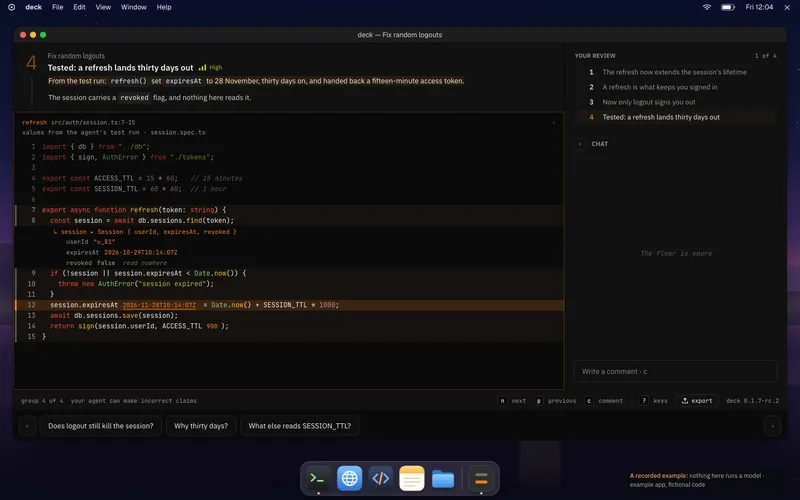
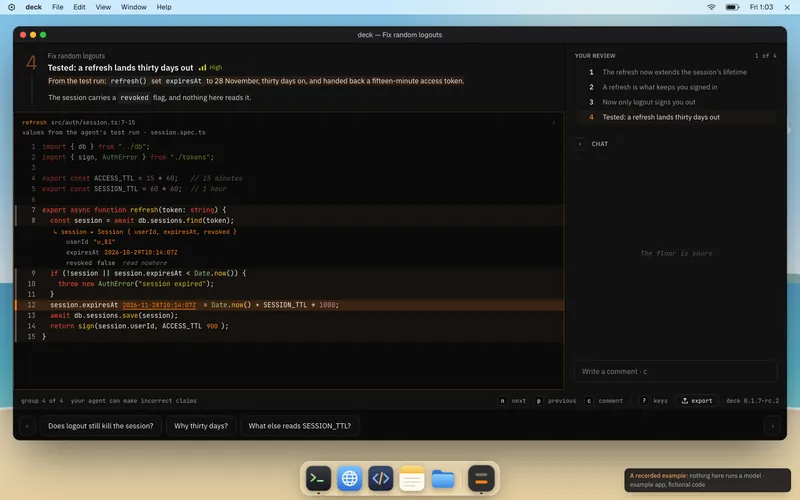
A daytime beach on /play/'s desktop
Soft sky and clouds, a hazy headland, the sea and its foam, the sand:
hand-drawn in the page, 3 KB. The menu bar and dock are light glass now,
the honest line a touch more opaque, so all of it reads on a bright
wallpaper. The still for phones is retaken.

Changed region(s): [[0.0, 0.0, 1.0, 1.0]]

diff --git a/site/play/index.html b/site/play/index.html
@@ -74,27 +74,23 @@
 <div class="desk" id="desk" tabindex="-1" role="dialog" aria-modal="true" aria-label="deck on a desktop, a recorded example" hidden>
 <svg class="wall" viewBox="0 0 1600 1000" preserveAspectRatio="xMidYMid slice" aria-hidden="true">
 <defs>
-<linearGradient id="sky" x1="0" y1="0" x2="0" y2="1"><stop offset="0" stop-color="#0a0f26"/><stop offset=".3" stop-color="#1b1d4b"/><stop offset=".48" stop-color="#4a3270"/><stop offset=".58" stop-color="#a65278"/><stop offset=".64" stop-color="#ef8f68"/><stop offset=".66" stop-color="#f6b37a"/></linearGradient>
-<radialGradient id="sun" cx="1080" cy="600" r="520" gradientUnits="userSpaceOnUse"><stop offset="0" stop-color="#ffd59a" stop-opacity=".9"/><stop offset=".18" stop-color="#ff9f6e" stop-opacity=".55"/><stop offset=".55" stop-color="#c25a7c" stop-opacity=".18"/><stop offset="1" stop-color="#c25a7c" stop-opacity="0"/></radialGradient>
-<linearGradient id="far" x1="0" y1="0" x2="0" y2="1"><stop offset="0" stop-color="#6b4a7e"/><stop offset=".25" stop-color="#3e2f5e"/></linearGradient>
-<linearGradient id="mid" x1="0" y1="0" x2="0" y2="1"><stop offset="0" stop-color="#3a2b55"/><stop offset=".3" stop-color="#211b3c"/></linearGradient>
-<linearGradient id="near" x1="0" y1="0" x2="0" y2="1"><stop offset="0" stop-color="#17142b"/><stop offset=".2" stop-color="#0c0b19"/></linearGradient>
-<linearGradient id="lake" x1="0" y1="0" x2="0" y2="1"><stop offset="0" stop-color="#5b3b6c"/><stop offset=".15" stop-color="#2b2148"/><stop offset="1" stop-color="#070712"/></linearGradient>
-<linearGradient id="mist" x1="0" y1="0" x2="0" y2="1"><stop offset="0" stop-color="#ffd2b0" stop-opacity="0"/><stop offset=".5" stop-color="#ffd2b0" stop-opacity=".16"/><stop offset="1" stop-color="#ffd2b0" stop-opacity="0"/></linearGradient>
-<linearGradient id="glint" x1="0" y1="0" x2="0" y2="1"><stop offset="0" stop-color="#ffcf98" stop-opacity=".7"/><stop offset="1" stop-color="#ffcf98" stop-opacity="0"/></linearGradient>
-<clipPath id="above"><rect width="1600" height="650"/></clipPath>
+<linearGradient id="sky" x1="0" y1="0" x2="0" y2="1"><stop offset="0" stop-color="#7fc3ea"/><stop offset=".35" stop-color="#a9d8f2"/><stop offset=".56" stop-color="#e4f3fa"/></linearGradient>
+<radialGradient id="sun" cx="1220" cy="150" r="460" gradientUnits="userSpaceOnUse"><stop offset="0" stop-color="#fffbe8" stop-opacity=".95"/><stop offset=".2" stop-color="#fff4d1" stop-opacity=".45"/><stop offset="1" stop-color="#fff4d1" stop-opacity="0"/></radialGradient>
+<linearGradient id="head" x1="0" y1="0" x2="0" y2="1"><stop offset="0" stop-color="#8fb6b4"/><stop offset="1" stop-color="#b9d3d0"/></linearGradient>
+<linearGradient id="sea" x1="0" y1="0" x2="0" y2="1"><stop offset="0" stop-color="#5aa9cf"/><stop offset=".55" stop-color="#5fbfd6"/><stop offset="1" stop-color="#8fdad9"/></linearGradient>
+<linearGradient id="sand" x1="0" y1="0" x2="0" y2="1"><stop offset="0" stop-color="#efe0bf"/><stop offset="1" stop-color="#e6cf9f"/></linearGradient>
+<linearGradient id="wet" x1="0" y1="0" x2="0" y2="1"><stop offset="0" stop-color="#d8c7a0"/><stop offset="1" stop-color="#e9d8b2" stop-opacity="0"/></linearGradient>
+<clipPath id="land"><rect width="1600" height="566"/></clipPath>
 </defs>
 <rect width="1600" height="1000" fill="url(#sky)"/>
 <rect width="1600" height="1000" fill="url(#sun)"/>
-<g fill="#fff"><circle cx="849" cy="73" r="1.2" opacity="0.45"/><circle cx="1065" cy="229" r="1.3" opacity="0.85"/><circle cx="808" cy="238" r="0.9" opacity="0.55"/><circle cx="481" cy="106" r="1.0" opacity="0.65"/><circle cx="409" cy="134" r="1.5" opacity="0.25"/><circle cx="180" cy="201" r="0.9" opacity="0.25"/><circle cx="1386" cy="94" r="1.3" opacity="0.75"/><circle cx="1595" cy="245" r="1.3" opacity="0.35"/><circle cx="685" cy="60" r="0.9" opacity="0.25"/><circle cx="158" cy="198" r="1.3" opacity="0.55"/><circle cx="1397" cy="327" r="1.3" opacity="0.85"/><circle cx="869" cy="15" r="1.3" opacity="0.75"/><circle cx="1065" cy="128" r="0.7" opacity="0.35"/><circle cx="453" cy="312" r="0.8" opacity="0.35"/><circle cx="316" cy="277" r="1.3" opacity="0.55"/><circle cx="615" cy="178" r="1.1" opacity="0.35"/><circle cx="911" cy="328" r="0.8" opacity="0.45"/><circle cx="330" cy="99" r="0.7" opacity="0.85"/><circle cx="782" cy="193" r="1.3" opacity="0.65"/><circle cx="690" cy="198" r="0.7" opacity="0.25"/><circle cx="172" cy="31" r="0.8" opacity="0.65"/><circle cx="1274" cy="185" r="0.6" opacity="0.65"/><circle cx="792" cy="276" r="1.0" opacity="0.35"/><circle cx="531" cy="55" r="0.9" opacity="0.75"/><circle cx="1598" cy="139" r="1.0" opacity="0.65"/><circle cx="957" cy="239" r="0.8" opacity="0.25"/><circle cx="940" cy="288" r="0.6" opacity="0.45"/><circle cx="1458" cy="123" r="1.5" opacity="0.55"/><circle cx="537" cy="67" r="0.6" opacity="0.45"/><circle cx="193" cy="45" r="1.0" opacity="0.35"/><circle cx="1269" cy="327" r="0.7" opacity="0.75"/><circle cx="433" cy="26" r="1.3" opacity="0.45"/><circle cx="918" cy="244" r="1.5" opacity="0.85"/><circle cx="1514" cy="96" r="1.4" opacity="0.65"/><circle cx="1403" cy="79" r="0.8" opacity="0.85"/><circle cx="918" cy="14" r="1.5" opacity="0.25"/><circle cx="317" cy="147" r="0.7" opacity="0.35"/><circle cx="582" cy="284" r="0.9" opacity="0.35"/><circle cx="857" cy="291" r="1.3" opacity="0.85"/><circle cx="746" cy="291" r="1.0" opacity="0.25"/><circle cx="220" cy="252" r="1.4" opacity="0.25"/><circle cx="762" cy="55" r="1.4" opacity="0.55"/><circle cx="709" cy="243" r="1.1" opacity="0.85"/><circle cx="1440" cy="202" r="1.3" opacity="0.55"/><circle cx="1327" cy="186" r="1.1" opacity="0.75"/><circle cx="653" cy="144" r="1.3" opacity="0.85"/></g>
-<circle cx="1080" cy="610" r="40" fill="#ffe3b8" opacity=".92"/>
-<g clip-path="url(#above)"><polygon points="0,1000 0,492 25,492 50,492 75,492 100,489 125,487 150,488 175,490 200,491 225,491 250,490 275,489 300,484 325,480 350,477 375,477 400,475 425,479 450,480 475,481 500,481 525,479 550,475 575,475 600,477 625,482 650,483 675,489 700,492 725,494 750,493 775,494 800,495 825,494 850,495 875,495 900,494 925,493 950,494 975,492 1000,493 1025,493 1050,494 1075,492 1100,493 1125,495 1150,498 1175,499 1200,500 1225,504 1250,504 1275,507 1300,511 1325,514 1350,520 1375,522 1400,523 1425,523 1450,521 1475,525 1500,526 1525,523 1550,525 1575,529 1600,531 1600,1000" fill="url(#far)"/><polygon points="0,1000 0,485 25,488 50,491 75,491 100,492 125,496 150,499 175,502 200,506 225,510 250,513 275,516 300,517 325,520 350,524 375,524 400,526 425,527 450,530 475,529 500,530 525,533 550,535 575,538 600,542 625,545 650,546 675,549 700,551 725,552 750,553 775,555 800,555 825,559 850,561 875,563 900,564 925,564 950,565 975,565 1000,566 1025,566 1050,566 1075,569 1100,571 1125,571 1150,572 1175,573 1200,571 1225,571 1250,572 1275,572 1300,570 1325,572 1350,572 1375,575 1400,576 1425,578 1450,578 1475,579 1500,581 1525,582 1550,583 1575,583 1600,582 1600,1000" fill="url(#mid)"/></g>
-<rect y="560" width="1600" height="110" fill="url(#mist)"/>
-<rect y="650" width="1600" height="350" fill="url(#lake)"/>
-<g transform="translate(0 1300) scale(1 -1)" opacity=".28" clip-path="url(#above)"><polygon points="0,1000 0,492 25,492 50,492 75,492 100,489 125,487 150,488 175,490 200,491 225,491 250,490 275,489 300,484 325,480 350,477 375,477 400,475 425,479 450,480 475,481 500,481 525,479 550,475 575,475 600,477 625,482 650,483 675,489 700,492 725,494 750,493 775,494 800,495 825,494 850,495 875,495 900,494 925,493 950,494 975,492 1000,493 1025,493 1050,494 1075,492 1100,493 1125,495 1150,498 1175,499 1200,500 1225,504 1250,504 1275,507 1300,511 1325,514 1350,520 1375,522 1400,523 1425,523 1450,521 1475,525 1500,526 1525,523 1550,525 1575,529 1600,531 1600,1000" fill="url(#far)"/><polygon points="0,1000 0,485 25,488 50,491 75,491 100,492 125,496 150,499 175,502 200,506 225,510 250,513 275,516 300,517 325,520 350,524 375,524 400,526 425,527 450,530 475,529 500,530 525,533 550,535 575,538 600,542 625,545 650,546 675,549 700,551 725,552 750,553 775,555 800,555 825,559 850,561 875,563 900,564 925,564 950,565 975,565 1000,566 1025,566 1050,566 1075,569 1100,571 1125,571 1150,572 1175,573 1200,571 1225,571 1250,572 1275,572 1300,570 1325,572 1350,572 1375,575 1400,576 1425,578 1450,578 1475,579 1500,581 1525,582 1550,583 1575,583 1600,582 1600,1000" fill="url(#mid)"/></g>
-<path d="M1050 652 h60 l14 340 h-88 z" fill="url(#glint)" opacity=".5"/>
-<g fill="#ffe0b8" opacity=".35"><rect x="1030" y="672" width="100" height="2" rx="1"/><rect x="1046" y="700" width="70" height="2" rx="1"/><rect x="1020" y="736" width="118" height="1.5" rx="1"/><rect x="1056" y="780" width="52" height="1.5" rx="1"/></g>
-<polygon points="0,1000 0,958 25,959 50,961 75,961 100,962 125,963 150,963 175,963 200,963 225,964 250,966 275,966 300,967 325,968 350,969 375,969 400,969 425,970 450,970 475,970 500,971 525,972 550,973 575,974 600,975 625,975 650,976 675,976 700,976 725,974 750,973 775,974 800,973 825,973 850,973 875,973 900,973 925,974 950,974 975,973 1000,974 1025,973 1050,973 1075,973 1100,972 1125,971 1150,970 1175,971 1200,970 1225,970 1250,968 1275,967 1300,966 1325,966 1350,966 1375,965 1400,964 1425,963 1450,964 1475,963 1500,961 1525,960 1550,959 1575,956 1600,955 1600,1000" fill="url(#near)"/>
+<g fill="#fff"><g transform="translate(300 170) scale(1)" opacity="0.75"><ellipse cx="0" cy="0" rx="120" ry="26"/><ellipse cx="-60" cy="-14" rx="62" ry="30"/><ellipse cx="40" cy="-22" rx="74" ry="38"/></g><g transform="translate(760 110) scale(0.7)" opacity="0.6"><ellipse cx="0" cy="0" rx="120" ry="26"/><ellipse cx="-60" cy="-14" rx="62" ry="30"/><ellipse cx="40" cy="-22" rx="74" ry="38"/></g><g transform="translate(1480 260) scale(0.85)" opacity="0.55"><ellipse cx="0" cy="0" rx="120" ry="26"/><ellipse cx="-60" cy="-14" rx="62" ry="30"/><ellipse cx="40" cy="-22" rx="74" ry="38"/></g><g transform="translate(1040 300) scale(0.55)" opacity="0.45"><ellipse cx="0" cy="0" rx="120" ry="26"/><ellipse cx="-60" cy="-14" rx="62" ry="30"/><ellipse cx="40" cy="-22" rx="74" ry="38"/></g></g>
+<g clip-path="url(#land)"><polygon points="900,1000 900,531 950,531 1000,531 1050,532 1100,531 1150,534 1200,534 1250,536 1300,539 1350,543 1400,545 1450,544 1500,546 1550,546 1600,548 1600,1000" fill="url(#head)"/></g>
+<rect y="566" width="1600" height="300" fill="url(#sea)"/>
+<g fill="none" stroke="#ffffff" stroke-linecap="round" opacity=".55"><path d="M120 620h180M520 650h240M980 610h160M1300 680h200M240 720h260M760 760h220" stroke-width="2"/></g>
+<path d="M0 820 C 200 800, 360 840, 560 822 S 960 800, 1160 826 S 1460 808, 1600 820 V 1000 H 0 Z" fill="url(#sand)"/>
+<path d="M0 820 C 200 800, 360 840, 560 822 S 960 800, 1160 826 S 1460 808, 1600 820 V 860 H 0 Z" fill="url(#wet)"/>
+<path d="M0 818 C 200 798, 360 838, 560 820 S 960 798, 1160 824 S 1460 806, 1600 818" fill="none" stroke="#fffdf6" stroke-width="5" stroke-linecap="round" opacity=".9"/>
 </svg>
 <div class="mb" aria-hidden="true">
  <span class="mb-l"><svg viewBox="0 0 16 16"><path d="M8 1.5l5.6 3.25v6.5L8 14.5l-5.6-3.25v-6.5z" fill="none" stroke="currentColor" stroke-width="1.5"/><circle cx="8" cy="8" r="2" fill="currentColor"/></svg><b id="mb-app">Terminal</b><span>File</span><span>Edit</span><span>View</span><span>Window</span><span>Help</span></span>

diff --git a/site/css/play.css b/site/css/play.css
@@ -8,7 +8,7 @@
 .pi-head .eyebrow{margin-bottom:calc(12*var(--u))}
 .pi-head h1{font-size:clamp(calc(32*var(--u)),3.6vw,calc(48*var(--u)))}
 .pi-line{margin:calc(12*var(--u)) 0 0;color:var(--soft);font-size:var(--fs-lede)}
-.pi-frame{position:relative;max-width:min(100%,calc((100svh - 280px) * 1.6));margin-top:calc(28*var(--u));border-radius:14px;overflow:hidden;border:1px solid #2a2a29;box-shadow:0 0 0 1px #000,0 40px 100px -30px #000;aspect-ratio:1440/900;background:#0a0f26}
+.pi-frame{position:relative;max-width:min(100%,calc((100svh - 280px) * 1.6));margin-top:calc(28*var(--u));border-radius:14px;overflow:hidden;border:1px solid #2a2a29;box-shadow:0 0 0 1px #000,0 40px 100px -30px #000;aspect-ratio:1440/900;background:#a9d8f2}
 .pi-still{display:block;width:100%;height:100%;object-fit:cover;transition:transform 760ms var(--ease),filter 760ms var(--ease)}
 .pi-frame::after{content:"";position:absolute;inset:0;background:radial-gradient(60% 60% at 50% 55%,#07070700,#07070766);pointer-events:none}
 .pi-start{appearance:none;position:absolute;left:50%;top:50%;z-index:2;transform:translate(-50%,-50%);display:inline-flex;align-items:center;gap:14px;padding:18px 30px 18px 22px;border:1px solid #ffffff2a;border-radius:999px;background:#0b0b0bcc;backdrop-filter:blur(16px) saturate(1.3);-webkit-backdrop-filter:blur(16px) saturate(1.3);color:var(--text);font:500 22px/1 var(--display);letter-spacing:-.01em;cursor:pointer;box-shadow:0 0 0 1px #000,0 20px 60px -10px #000,0 0 80px -10px #fe801955;transition:transform 420ms var(--ease),box-shadow 420ms var(--ease),border-color 150ms var(--ease)}
@@ -38,23 +38,23 @@
 
 /* ---- the desktop */
 html.desk-on,html.desk-on body{overflow:hidden}
-.desk{--mbh:26px;--dockh:68px;position:fixed;inset:0;z-index:100;overflow:hidden;background:#0a0f26;color:#f2f2ee;font-family:var(--sans);outline:none;user-select:none;-webkit-user-select:none}
+.desk{--mbh:26px;--dockh:68px;position:fixed;inset:0;z-index:100;overflow:hidden;background:#a9d8f2;color:#f2f2ee;font-family:var(--sans);outline:none;user-select:none;-webkit-user-select:none}
 .desk[hidden]{display:none}
 .desk .wall{position:absolute;inset:0;width:100%;height:100%}
-.mb{position:absolute;inset:0 0 auto;z-index:6;height:var(--mbh);display:flex;justify-content:space-between;align-items:center;padding:0 48px 0 14px;background:#14102033;backdrop-filter:blur(20px) saturate(1.4);-webkit-backdrop-filter:blur(20px) saturate(1.4);color:#f4f0fa;font:400 12.5px/1 var(--display)}
+.mb{position:absolute;inset:0 0 auto;z-index:6;height:var(--mbh);display:flex;justify-content:space-between;align-items:center;padding:0 48px 0 14px;background:#ffffffa6;backdrop-filter:blur(20px) saturate(1.4);-webkit-backdrop-filter:blur(20px) saturate(1.4);color:#1d1d1f;box-shadow:0 1px 0 #0000000f;font:400 12.5px/1 var(--display)}
 .mb-l,.mb-r{display:flex;align-items:center;gap:18px}
 .mb-l svg{width:14px;height:14px}
-.mb-l b{font-weight:600}
+.mb-l b{font-weight:600;color:inherit}
 .mb-r svg{height:12px;width:auto}
-.dx{appearance:none;position:absolute;top:2px;right:8px;z-index:7;width:30px;height:22px;border:0;border-radius:6px;background:none;color:#f4f0fa;font:500 13px/1 var(--display);cursor:pointer;transition:background-color 150ms var(--ease)}
-.dx:hover,.dx:focus-visible{background:#ffffff26}
-.dock{position:absolute;left:50%;bottom:8px;z-index:5;transform:translateX(-50%);display:flex;align-items:flex-end;gap:8px;padding:6px 8px;border-radius:18px;background:#ffffff22;border:1px solid #ffffff2e;backdrop-filter:blur(24px) saturate(1.5);-webkit-backdrop-filter:blur(24px) saturate(1.5);box-shadow:0 10px 40px -10px #00000080}
+.dx{appearance:none;position:absolute;top:2px;right:8px;z-index:7;width:30px;height:22px;border:0;border-radius:6px;background:none;color:#1d1d1f;font:500 13px/1 var(--display);cursor:pointer;transition:background-color 150ms var(--ease)}
+.dx:hover,.dx:focus-visible{background:#0000001a}
+.dock{position:absolute;left:50%;bottom:8px;z-index:5;transform:translateX(-50%);display:flex;align-items:flex-end;gap:8px;padding:6px 8px;border-radius:18px;background:#ffffff59;border:1px solid #ffffff80;backdrop-filter:blur(24px) saturate(1.5);-webkit-backdrop-filter:blur(24px) saturate(1.5);box-shadow:0 10px 40px -10px #00000080}
 .di{position:relative;width:48px;height:48px;transform-origin:50% 100%;transition:transform 150ms var(--ease)}
 .di svg{display:block;width:100%;height:100%;filter:drop-shadow(0 3px 6px #00000059)}
 .di:hover{transform:translateY(-4px) scale(1.12)}
-.di b{position:absolute;left:50%;bottom:-5px;width:4px;height:4px;margin-left:-2px;border-radius:50%;background:#fff;opacity:0;transition:opacity 420ms var(--ease)}
+.di b{position:absolute;left:50%;bottom:-5px;width:4px;height:4px;margin-left:-2px;border-radius:50%;background:#1d1d1f;opacity:0;transition:opacity 420ms var(--ease)}
 .di.on b{opacity:.85}
-.dsep{width:1px;align-self:stretch;margin:4px 2px;background:#ffffff40}
+.dsep{width:1px;align-self:stretch;margin:4px 2px;background:#0000002e}
 
 /* windows on the desktop: the terminal, and the deck */
 .win{position:absolute;z-index:2;display:flex;flex-direction:column;border-radius:12px;overflow:hidden;box-shadow:0 0 0 1px #00000099,0 30px 90px -12px #000000a6,inset 0 0 0 1px #ffffff0f;opacity:0;visibility:hidden;transform:translateY(12px) scale(.985);transition:opacity 420ms var(--ease),transform 420ms var(--ease),filter 420ms var(--ease),visibility 0s linear 420ms}
@@ -85,11 +85,11 @@ html.desk-on,html.desk-on body{overflow:hidden}
 .srail{position:absolute;left:50%;top:calc(var(--mbh) + 7px);z-index:4;transform:translateX(-50%);display:flex;gap:4px;opacity:0;transition:opacity 420ms var(--ease)}
 .desk.chrome .srail,.srail:focus-within{opacity:1}
 .srail button{appearance:none;width:34px;height:10px;padding:3px 0;border:0;background:none;cursor:pointer}
-.srail i{display:block;height:4px;border-radius:2px;background:#ffffff40;transition:background-color 420ms var(--ease)}
+.srail i{display:block;height:4px;border-radius:2px;background:#0000002e;transition:background-color 420ms var(--ease)}
 .srail span{position:absolute;width:1px;height:1px;overflow:hidden;clip:rect(0 0 0 0)}
-.srail button.done i{background:#ffffffa0}
+.srail button.done i{background:#00000066}
 .srail button[aria-current] i{background:var(--accent)}
-.srail button:hover i{background:#fff}
+.srail button:hover i{background:#1d1d1f}
 .cap{position:absolute;left:16px;bottom:10px;z-index:5;width:min(440px,calc(50vw - 230px));padding:10px 12px;border-radius:12px;background:#0c0c10d9;border:1px solid #ffffff1f;backdrop-filter:blur(20px);-webkit-backdrop-filter:blur(20px);box-shadow:0 10px 30px -10px #000}
 .cap-t{margin:0 0 8px;font:400 12.5px/1.45 var(--sans);color:#d6d6d1;display:-webkit-box;-webkit-line-clamp:2;-webkit-box-orient:vertical;overflow:hidden}
 .cap-t>b{margin-right:6px;font:500 11px var(--mono);color:var(--accent)}
@@ -104,7 +104,7 @@ html.desk-on,html.desk-on body{overflow:hidden}
 .cb.auto{margin-left:auto}
 .pl-ai{width:0;height:0;border-left:7px solid var(--accent);border-top:4.5px solid transparent;border-bottom:4.5px solid transparent}
 .cb[aria-pressed="true"] .pl-ai{width:7px;height:9px;border:0;background:linear-gradient(90deg,var(--accent) 0 2.5px,transparent 2.5px 4.5px,var(--accent) 4.5px)}
-.dhonest{position:absolute;right:16px;bottom:14px;z-index:5;max-width:min(300px,calc(50vw - 230px));margin:0;padding:6px 10px;border-radius:8px;background:#0c0c10b3;font:400 11px/1.4 var(--sans);color:#b9b9be}
+.dhonest{position:absolute;right:16px;bottom:14px;z-index:5;max-width:min(300px,calc(50vw - 230px));margin:0;padding:6px 10px;border-radius:8px;background:#0c0c10d9;box-shadow:0 6px 20px -8px #0006;font:400 11px/1.4 var(--sans);color:#b9b9be}
 .dhonest b{color:#f0a060;font-weight:500}
 
 /* the pointer, the keys it presses, the file the export leaves, the end */

diff --git a/site/tools/play.py b/site/tools/play.py
@@ -67,46 +67,30 @@ def ridge(seed: int, base: float, amp: float, rough: float, n: int = 64) -> str:
     return " ".join(f"{i * step:.0f},{y:.0f}" for i, y in enumerate(pts))
 
 
-def stars() -> str:
-    out, s = [], 7
-    for _ in range(46):
-        s = (s * 16807) % 2147483647
-        x = s % 1600
-        s = (s * 16807) % 2147483647
-        y = s % 330
-        s = (s * 16807) % 2147483647
-        r = 0.6 + (s % 10) / 10
-        out.append(f'<circle cx="{x}" cy="{y}" r="{r:.1f}" opacity="{0.25 + (s % 7) / 10:.2f}"/>')
-    return "".join(out)
-
-
 def wallpaper() -> str:
-    """Dusk over a lake, in layers: sky, sun, stars, three ranges, mist, the water and its reflection."""
-    far, mid, near = ridge(11, 470, 150, 0.56), ridge(23, 530, 120, 0.52), ridge(37, 945, 70, 0.5)
-    rng = lambda pts, fill: f'<polygon points="0,1000 {pts} 1600,1000" fill="url(#{fill})"/>'
+    """A calm beach by day, in layers: sky and soft clouds, a hazy headland, the sea, its foam, the sand."""
+    head = ridge(11, 520, 70, 0.55, 32)
+    cloud = lambda x, y, s, o: (f'<g transform="translate({x} {y}) scale({s})" opacity="{o}"><ellipse cx="0" cy="0" rx="120" ry="26"/>'
+                                f'<ellipse cx="-60" cy="-14" rx="62" ry="30"/><ellipse cx="40" cy="-22" rx="74" ry="38"/></g>')
     return f"""<svg class="wall" viewBox="0 0 1600 1000" preserveAspectRatio="xMidYMid slice" aria-hidden="true">
 <defs>
-<linearGradient id="sky" x1="0" y1="0" x2="0" y2="1"><stop offset="0" stop-color="#0a0f26"/><stop offset=".3" stop-color="#1b1d4b"/><stop offset=".48" stop-color="#4a3270"/><stop offset=".58" stop-color="#a65278"/><stop offset=".64" stop-color="#ef8f68"/><stop offset=".66" stop-color="#f6b37a"/></linearGradient>
-<radialGradient id="sun" cx="1080" cy="600" r="520" gradientUnits="userSpaceOnUse"><stop offset="0" stop-color="#ffd59a" stop-opacity=".9"/><stop offset=".18" stop-color="#ff9f6e" stop-opacity=".55"/><stop offset=".55" stop-color="#c25a7c" stop-opacity=".18"/><stop offset="1" stop-color="#c25a7c" stop-opacity="0"/></radialGradient>
-<linearGradient id="far" x1="0" y1="0" x2="0" y2="1"><stop offset="0" stop-color="#6b4a7e"/><stop offset=".25" stop-color="#3e2f5e"/></linearGradient>
-<linearGradient id="mid" x1="0" y1="0" x2="0" y2="1"><stop offset="0" stop-color="#3a2b55"/><stop offset=".3" stop-color="#211b3c"/></linearGradient>
-<linearGradient id="near" x1="0" y1="0" x2="0" y2="1"><stop offset="0" stop-color="#17142b"/><stop offset=".2" stop-color="#0c0b19"/></linearGradient>
-<linearGradient id="lake" x1="0" y1="0" x2="0" y2="1"><stop offset="0" stop-color="#5b3b6c"/><stop offset=".15" stop-color="#2b2148"/><stop offset="1" stop-color="#070712"/></linearGradient>
-<linearGradient id="mist" x1="0" y1="0" x2="0" y2="1"><stop offset="0" stop-color="#ffd2b0" stop-opacity="0"/><stop offset=".5" stop-color="#ffd2b0" stop-opacity=".16"/><stop offset="1" stop-color="#ffd2b0" stop-opacity="0"/></linearGradient>
-<linearGradient id="glint" x1="0" y1="0" x2="0" y2="1"><stop offset="0" stop-color="#ffcf98" stop-opacity=".7"/><stop offset="1" stop-color="#ffcf98" stop-opacity="0"/></linearGradient>
-<clipPath id="above"><rect width="1600" height="650"/></clipPath>
+<linearGradient id="sky" x1="0" y1="0" x2="0" y2="1"><stop offset="0" stop-color="#7fc3ea"/><stop offset=".35" stop-color="#a9d8f2"/><stop offset=".56" stop-color="#e4f3fa"/></linearGradient>
+<radialGradient id="sun" cx="1220" cy="150" r="460" gradientUnits="userSpaceOnUse"><stop offset="0" stop-color="#fffbe8" stop-opacity=".95"/><stop offset=".2" stop-color="#fff4d1" stop-opacity=".45"/><stop offset="1" stop-color="#fff4d1" stop-opacity="0"/></radialGradient>
+<linearGradient id="head" x1="0" y1="0" x2="0" y2="1"><stop offset="0" stop-color="#8fb6b4"/><stop offset="1" stop-color="#b9d3d0"/></linearGradient>
+<linearGradient id="sea" x1="0" y1="0" x2="0" y2="1"><stop offset="0" stop-color="#5aa9cf"/><stop offset=".55" stop-color="#5fbfd6"/><stop offset="1" stop-color="#8fdad9"/></linearGradient>
+<linearGradient id="sand" x1="0" y1="0" x2="0" y2="1"><stop offset="0" stop-color="#efe0bf"/><stop offset="1" stop-color="#e6cf9f"/></linearGradient>
+<linearGradient id="wet" x1="0" y1="0" x2="0" y2="1"><stop offset="0" stop-color="#d8c7a0"/><stop offset="1" stop-color="#e9d8b2" stop-opacity="0"/></linearGradient>
+<clipPath id="land"><rect width="1600" height="566"/></clipPath>
 </defs>
 <rect width="1600" height="1000" fill="url(#sky)"/>
 <rect width="1600" height="1000" fill="url(#sun)"/>
-<g fill="#fff">{stars()}</g>
-<circle cx="1080" cy="610" r="40" fill="#ffe3b8" opacity=".92"/>
-<g clip-path="url(#above)">{rng(far, "far")}{rng(mid, "mid")}</g>
-<rect y="560" width="1600" height="110" fill="url(#mist)"/>
-<rect y="650" width="1600" height="350" fill="url(#lake)"/>
-<g transform="translate(0 1300) scale(1 -1)" opacity=".28" clip-path="url(#above)">{rng(far, "far")}{rng(mid, "mid")}</g>
-<path d="M1050 652 h60 l14 340 h-88 z" fill="url(#glint)" opacity=".5"/>
-<g fill="#ffe0b8" opacity=".35"><rect x="1030" y="672" width="100" height="2" rx="1"/><rect x="1046" y="700" width="70" height="2" rx="1"/><rect x="1020" y="736" width="118" height="1.5" rx="1"/><rect x="1056" y="780" width="52" height="1.5" rx="1"/></g>
-{rng(near, "near")}
+<g fill="#fff">{cloud(300, 170, 1, .75)}{cloud(760, 110, .7, .6)}{cloud(1480, 260, .85, .55)}{cloud(1040, 300, .55, .45)}</g>
+<g clip-path="url(#land)"><polygon points="900,1000 {" ".join(p for p in head.split() if float(p.split(",")[0]) >= 900)} 1600,1000" fill="url(#head)"/></g>
+<rect y="566" width="1600" height="300" fill="url(#sea)"/>
+<g fill="none" stroke="#ffffff" stroke-linecap="round" opacity=".55"><path d="M120 620h180M520 650h240M980 610h160M1300 680h200M240 720h260M760 760h220" stroke-width="2"/></g>
+<path d="M0 820 C 200 800, 360 840, 560 822 S 960 800, 1160 826 S 1460 808, 1600 820 V 1000 H 0 Z" fill="url(#sand)"/>
+<path d="M0 820 C 200 800, 360 840, 560 822 S 960 800, 1160 826 S 1460 808, 1600 820 V 860 H 0 Z" fill="url(#wet)"/>
+<path d="M0 818 C 200 798, 360 838, 560 820 S 960 798, 1160 824 S 1460 806, 1600 818" fill="none" stroke="#fffdf6" stroke-width="5" stroke-linecap="round" opacity=".9"/>
 </svg>"""
 
 
